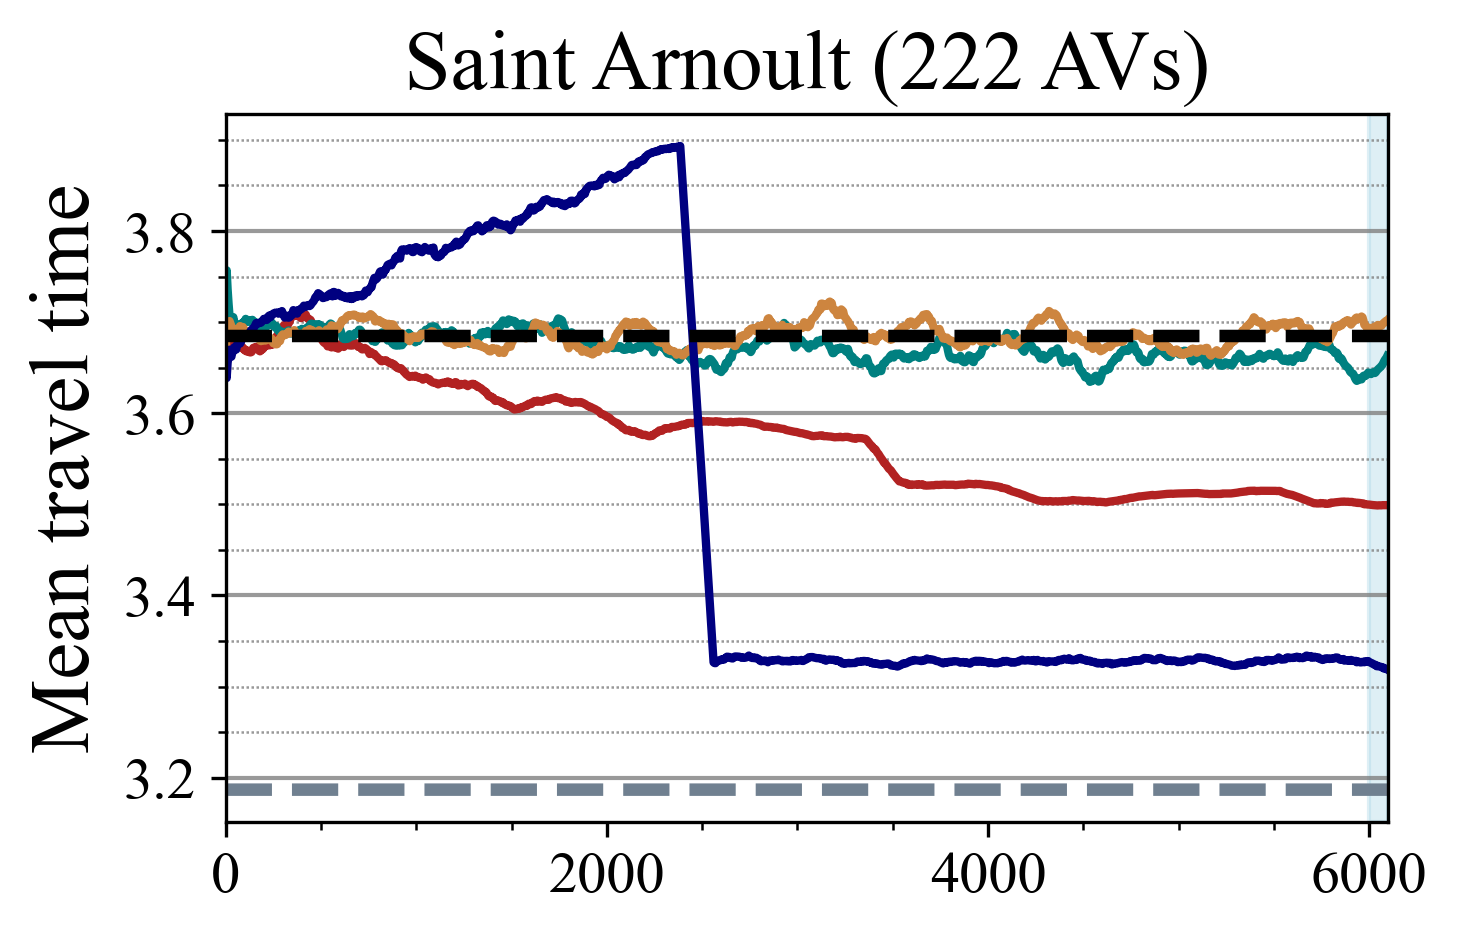
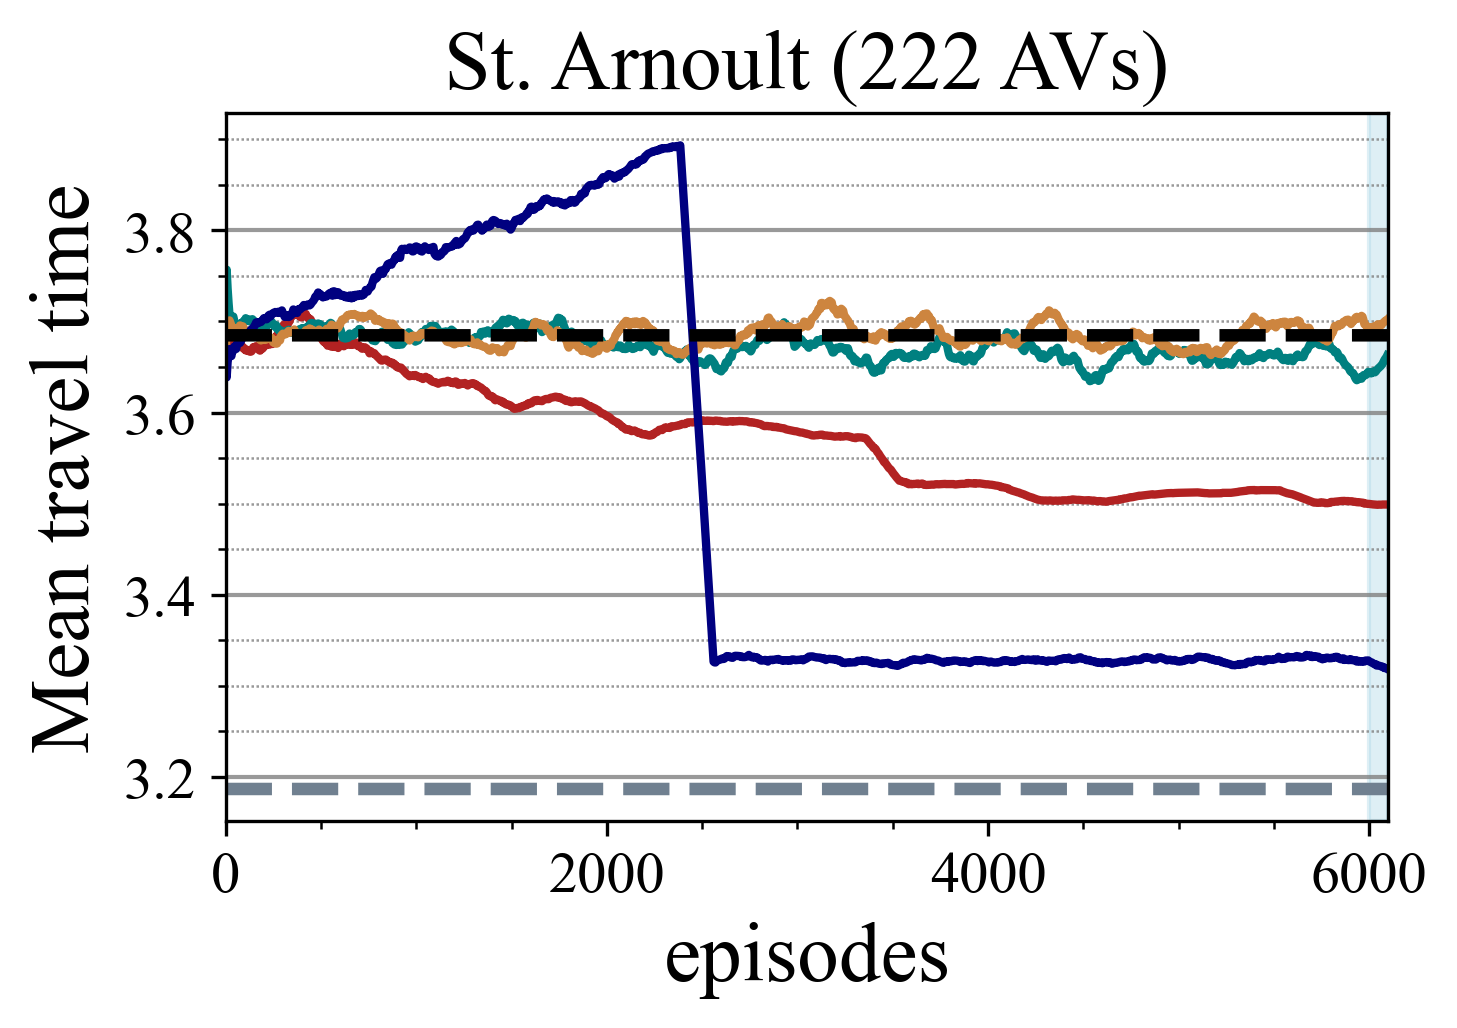
updated-plots

Changed region(s): [[0.0927, 0.031, 0.9883, 0.9615], [0.0, 0.1861, 0.0618, 0.8064], [0.1544, 0.9305, 0.1853, 0.9615]]

diff --git a/plotting.py b/plotting.py
@@ -9,6 +9,7 @@ from collections import OrderedDict, defaultdict
 import warnings
 from matplotlib.patches import Patch
 from matplotlib.lines import Line2D
+import math
 warnings.filterwarnings("ignore", category=RuntimeWarning, message="Mean of empty slice")
 
 def smooth_series(series, window=3, valid_start_index=0):
@@ -112,7 +113,7 @@ suffix_labels = {
 
 # Define city prefixes and their readable names
 city_prefixes = OrderedDict([
-    ('sai', 'Saint Arnoult (89 AVs)'),
+    ('sai', 'St. Arnoult (89 AVs)'),
     ('pro', 'Provins (210 AVs)'),
     ('ing', 'Ingolstadt (415 AVs)')
 ])
@@ -168,11 +169,15 @@ for i, (city_prefix, alg_groups) in enumerate(city_groups.items()):
     avg_human_tt_list = []
     print(city_prefix)
     for suffix, folders in alg_groups.items():
+        print(suffix)
         color = color_map.get(suffix, None)
         label = suffix_labels.get(suffix, suffix.upper())
 
         # Store all normalized AV runs for the current algorithm
         av_normalized_runs = []
+        avg_travel_times_seeds = []
+        x_list = []
+        av_smoothed_list = []
 
         for idx, folder in enumerate(folders):
             print(idx, folder)
@@ -195,8 +200,28 @@ for i, (city_prefix, alg_groups) in enumerate(city_groups.items()):
             av_smoothed = smooth_series(av_run, window=35, valid_start_index=0)
             x = [i * 5 for i in range(len(av_smoothed))]
 
-            if idx == 1:
-                ax.plot(x, av_smoothed, label=f'{label} (AV)', color=color, linewidth=2)
+            x_list.append(x)
+            av_smoothed_list.append(av_smoothed)
+            #print("av smoothed are: ", av_smoothed_list)
+
+            flattened = np.concatenate(av_smoothed_list)
+
+            # Remove NaNs
+            cleaned_av_smoothed = flattened[~np.isnan(flattened)]
+            avg_travel_times_seeds.append(sum(cleaned_av_smoothed) / len(cleaned_av_smoothed))
+
+            if idx == 2:
+                ## Find which seed has smaller avg travel time and plot that.
+                min_index = avg_travel_times_seeds.index(min(avg_travel_times_seeds))    
+                #print("Min index is: ", min_index, "\n\n")  
+                #print("Average travel time lists are: ", avg_travel_times_seeds, "\n\n")          
+                #print(len(x_list[min_index]), len(av_smoothed))
+
+                ax.plot(x_list[min_index], av_smoothed_list[min_index], label=f'{label} (AV)', color=color, linewidth=2)
+
+            """if idx == 1:
+                ax.plot(x, av_smoothed, label=f'{label} (AV)', color=color, linewidth=2)"""
+                #ax.set_xlabel("episodes", fontsize=20)
             #else:
             #    ax.plot(x, av_smoothed, color=color, linewidth=1, alpha=0.5)
 
@@ -255,13 +280,13 @@ for i, (city_prefix, alg_groups) in enumerate(city_groups.items()):
     ax.tick_params(axis='both', labelsize=14)
     ax.set_yticks([1, 1.1, 1.2])
     ax.set_title(f"{city_name}", fontsize=20)
-    if idx == 1:
-        ax.set_xlabel("episodes", fontsize=20)
-
+    
 
     #ax.set_xticks([0, 1000, 2000, 3000, 4000, 5000, 6000, 6800])
     ax.set_xlim(0, 6400)
     #ax.set_xticklabels(['0', '1000', '2000', '3000', '4000', '5000', '6000', '...20300'])
+    if i == 1:
+        ax.set_xlabel("episodes", fontsize=20)
 
     ### Adjust grid params
     ax.minorticks_on()
@@ -318,7 +343,7 @@ legend_elements = [
     Line2D([0], [0], color='peru', lw=2, label='MAPPO'),
     Patch(facecolor='none', edgecolor='none', label=' '),
     Line2D([0], [0], color='navy', lw=2, label='QMIX'),
-    Line2D([0], [0], marker='v', color='navy', linestyle='None', markersize=10, label='Qmix longer training'),
+    Line2D([0], [0], marker='v', color='navy', linestyle='None', markersize=10, label='QMIX longer training'),
     Patch(facecolor='none', edgecolor='none', label=' '),
 
     # Column 2: Baselines

diff --git a/plotting_saint_arnold_100avs.py b/plotting_saint_arnold_100avs.py
@@ -112,7 +112,7 @@ suffix_labels = {
 
 # Define city prefixes and their readable names
 city_prefixes = OrderedDict([
-    ('sai', 'Saint Arnoult (222 AVs)'),
+    ('sai', 'St. Arnoult (222 AVs)'),
 ])
 
 
@@ -263,8 +263,8 @@ for i, (city_prefix, alg_groups) in enumerate(city_groups.items()):
     ax.tick_params(axis='both', labelsize=14)
     #ax.set_yticks([1, 1.1, 1.2])
     ax.set_title(f"{city_name}", fontsize=20)
-    if idx == 1:
-        ax.set_xlabel("episodes", fontsize=20)
+    
+    ax.set_xlabel("episodes", fontsize=20)
 
 
     #ax.set_xticks([0, 1000, 2000, 3000, 4000, 5000, 6000, 6800])
